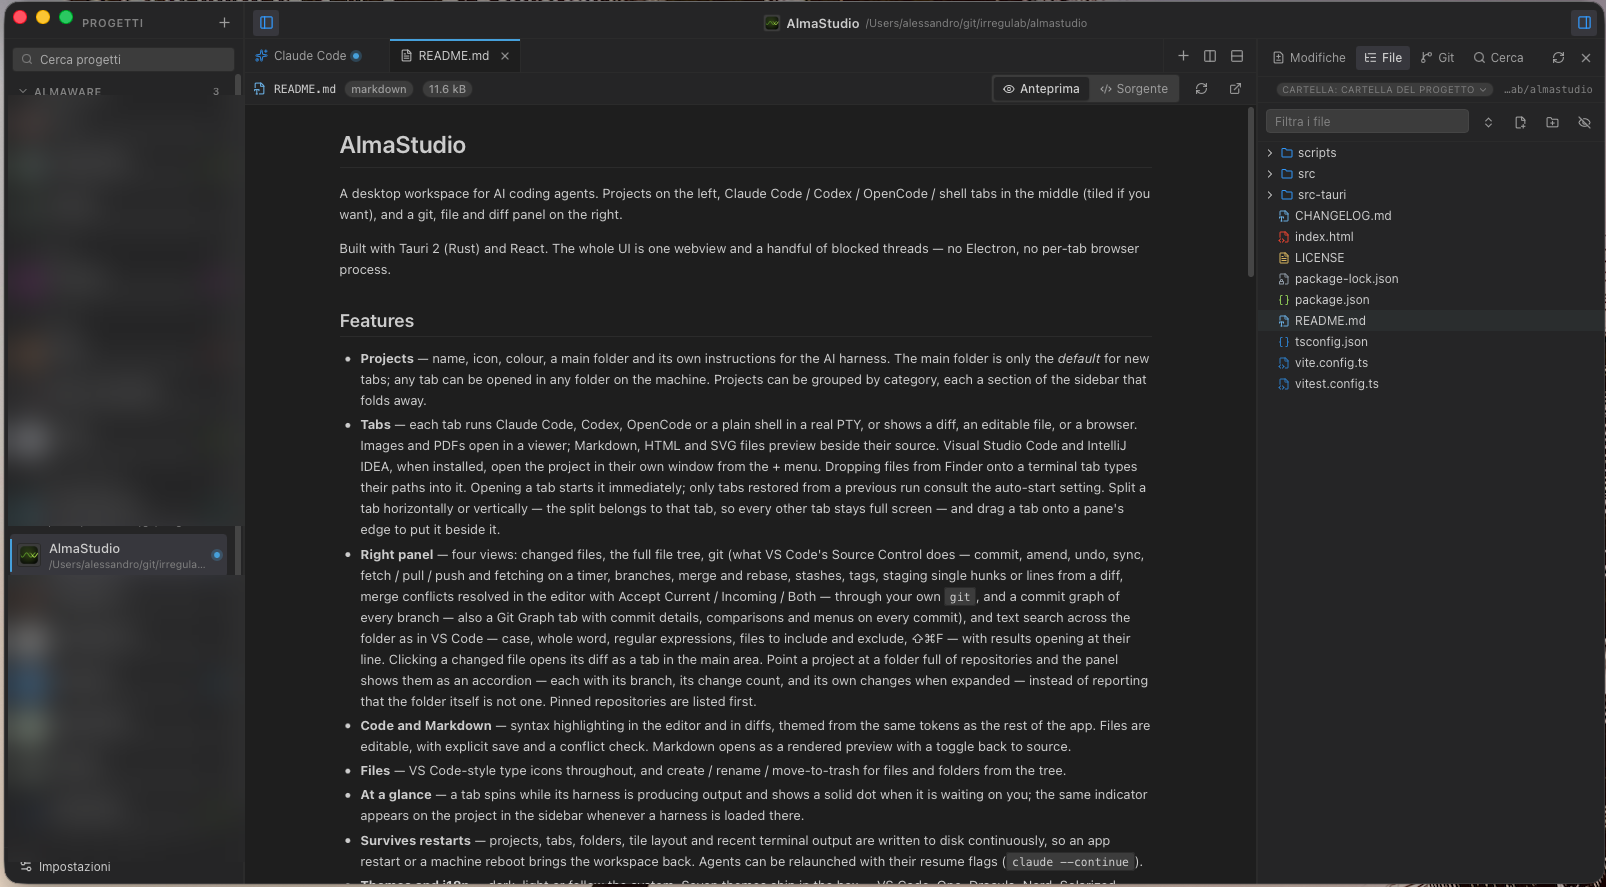
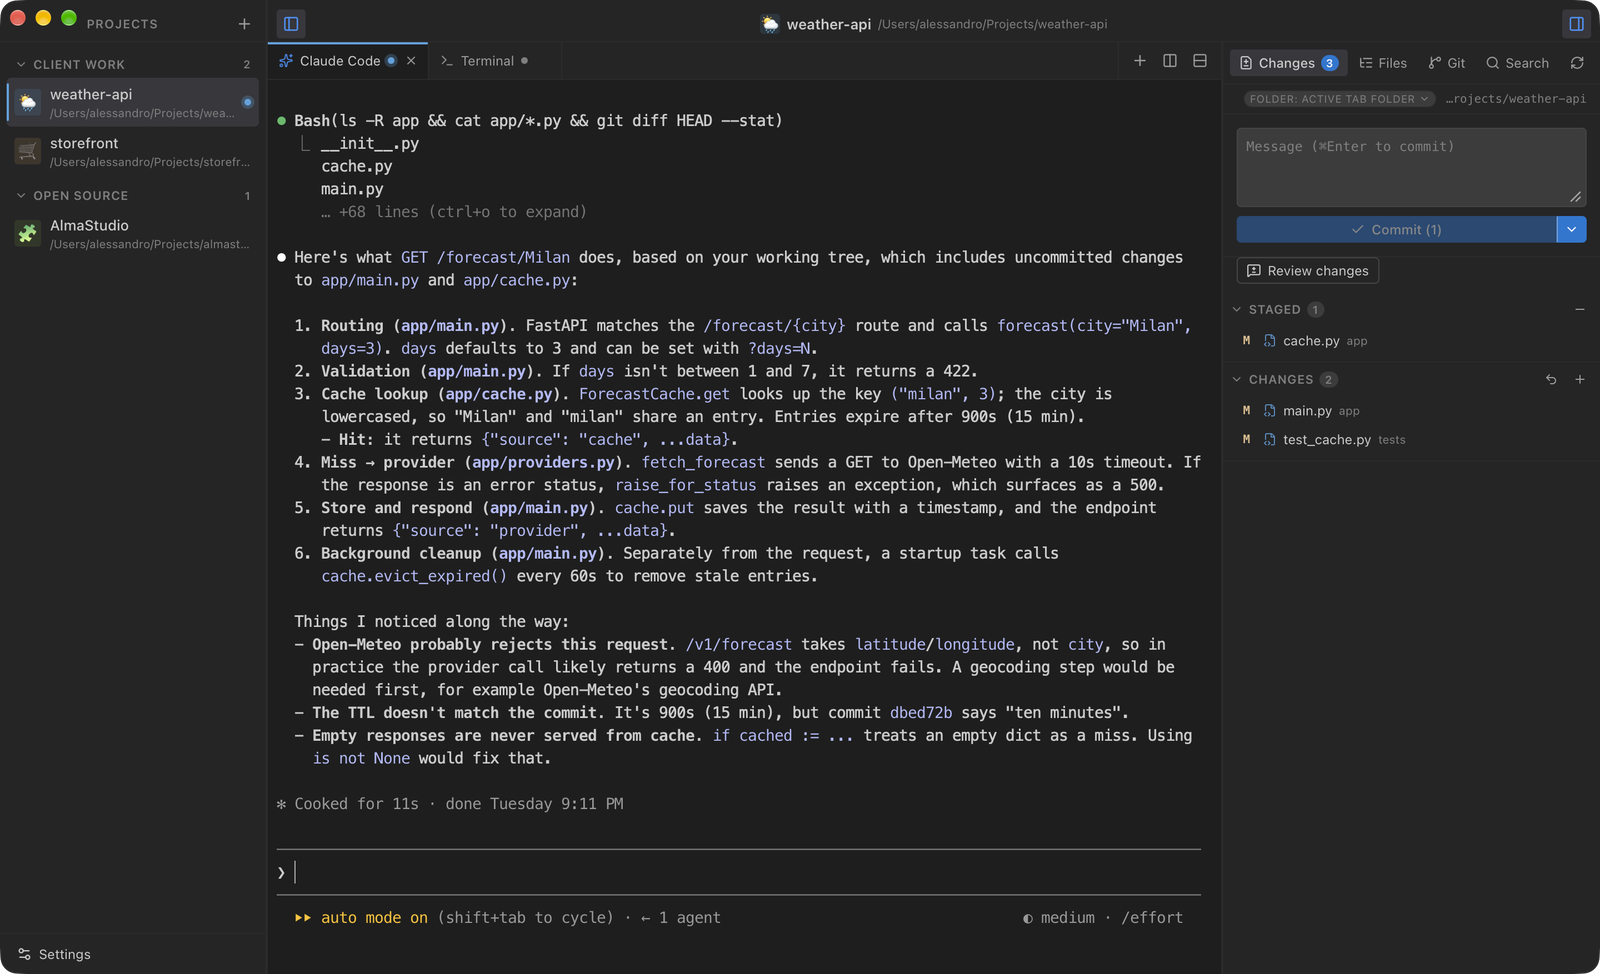
Retake the main window screenshot with demo projects
The old screenshot blurred the real project list. The new one shows
the demo workspace: projects by category, a Claude Code tab and the
git changes panel.

diff --git a/site/src/app/page.tsx b/site/src/app/page.tsx
@@ -72,9 +72,9 @@ export default function Home() {
         <figure>
           <img
             src="/main-window.png"
-            width={1606}
-            height={887}
-            alt="The AlmaStudio window: projects on the left, a Markdown preview in the middle, the file tree and git panel on the right"
+            width={1600}
+            height={974}
+            alt="The AlmaStudio window: projects on the left, a Claude Code tab in the middle, the git changes panel on the right"
           />
         </figure>
       </section>

diff --git a/README.md b/README.md
@@ -10,7 +10,7 @@ of blocked threads — no Electron, no per-tab browser process.
 ## Screenshots
 
 <p align="center">
-  <img src="docs/screenshots/main-window.png" alt="Main window — Markdown preview, file tree and side panel" width="800" />
+  <img src="docs/screenshots/main-window.png" alt="Main window — projects by category, a Claude Code tab and the git changes panel" width="800" />
 </p>
 
 <p align="center">
